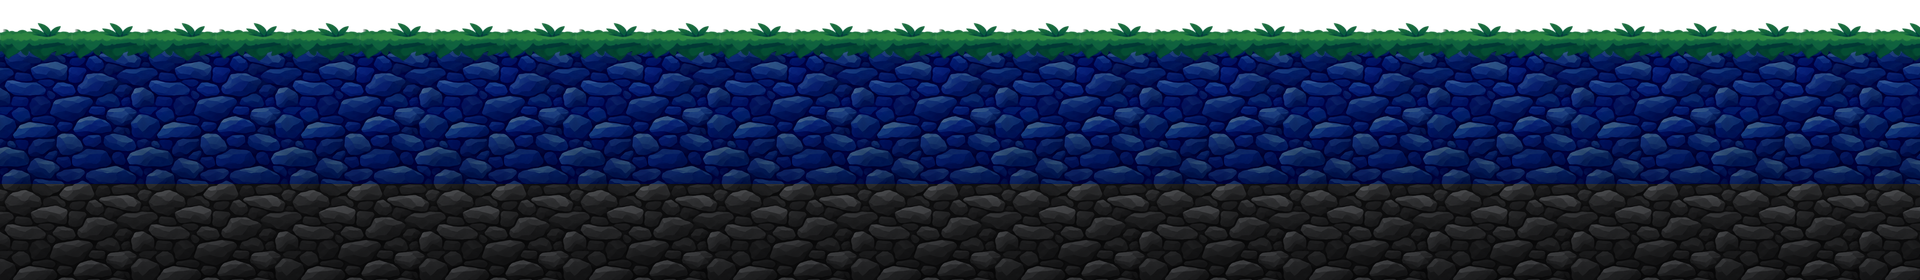
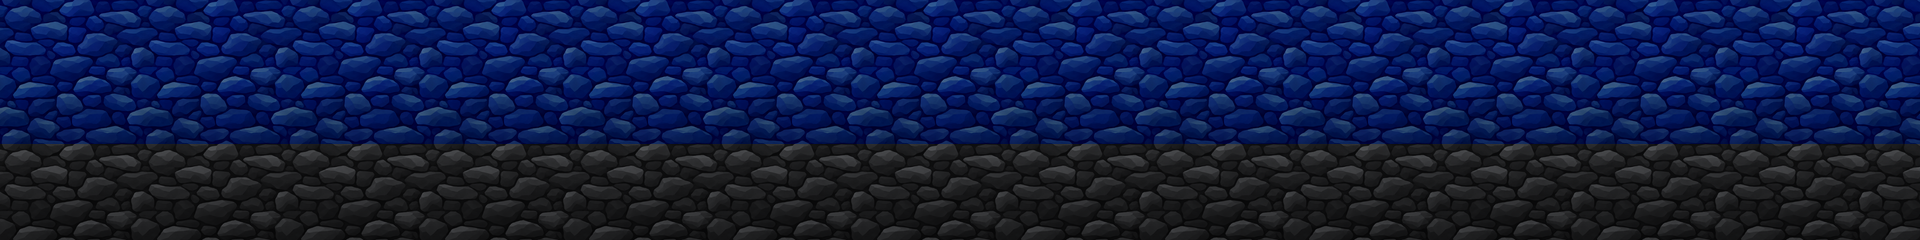
[fix] 인트로 보주 크기 0.6배, 바닥 타일 풀 빼기

diff --git a/Assets/Scripts/UI/Dialogue/IntroCutscene.cs b/Assets/Scripts/UI/Dialogue/IntroCutscene.cs
@@ -42,7 +42,8 @@ public class IntroCutscene : MonoBehaviour
     private const float BarHeight = 96f;   // 1920×1080 기준
     private const float FloorY = -300f;    // 화면 가운데 기준 바닥 높이 (시안 560/720)
     private const float ActorHeight = 270f;
-    private const float GroundGrassPx = 40f;   // Intro_Ground 그림에서 땅 윗면 위로 풀이 나온 높이
+    private const float GroundGrassPx = 0f;    // Intro_Ground 그림에서 땅 윗면 위로 솟은 높이 (풀 없음 = 0)
+    private const float OrbScale = 0.6f;       // 보주 크기 배율 (모든 장면의 보주 크기에 곱한다)
     private const float ActorYScale = 0.75f;   // 게임 속 Player 그림과 같은 비율 (세로 0.75배)
     // 320×480 판 그림(무릎·일어나기·손 뻗기): 발끝이 판 아래에서 17px 위, 몸 가운데가 대기 그림보다 14px 왼쪽에 있다
     private const float FrameFootPx = 17f;
@@ -334,7 +335,7 @@ public class IntroCutscene : MonoBehaviour
         {
             float u = Mathf.SmoothStep(0f, 1f, t / time);
             orb.anchoredPosition = Vector2.Lerp(fromPos, toPos, u);
-            float s = Mathf.Lerp(fromSize, size, u);
+            float s = Mathf.Lerp(fromSize, size * OrbScale, u);
             orb.sizeDelta = new Vector2(s, s);
             SetAlpha(orbImg, Mathf.Lerp(fromA, alpha, u));
             orbBobBase = s / 165f;
@@ -409,7 +410,7 @@ public class IntroCutscene : MonoBehaviour
     private void SetOrb(float x, float y, float size, float alpha)
     {
         orb.anchoredPosition = ScreenPos(x, y);
-        orb.sizeDelta = new Vector2(size, size);
+        orb.sizeDelta = new Vector2(size, size) * OrbScale;
         SetAlpha(orbImg, alpha);
         orbBobBase = size / 165f;
     }
@@ -460,8 +461,7 @@ public class IntroCutscene : MonoBehaviour
         wall = NewImage("RightWall", cave, Color.white, Load("Intro_Cave_wall"));
         Stretch(wall.rectTransform, 0f);
 
-        // 바닥: 게임과 같은 땅 타일(파랑 + 풀)을 한 줄로 깐 그림. 윗면이 캐릭터 발(FloorY)에 오게.
-        // 그림 위쪽 GroundGrassPx만큼은 풀이 땅 위로 솟은 부분이다.
+        // 바닥: 게임과 같은 땅 타일(파랑, 아래는 어두운 돌)을 한 줄로 깐 그림. 윗면이 캐릭터 발(FloorY)에 오게.
         Image ground = NewImage("Ground", cave, Color.white, Load("Intro_Ground"));
         RectTransform gr = ground.rectTransform;
         gr.anchorMin = gr.anchorMax = new Vector2(0.5f, 0.5f);
